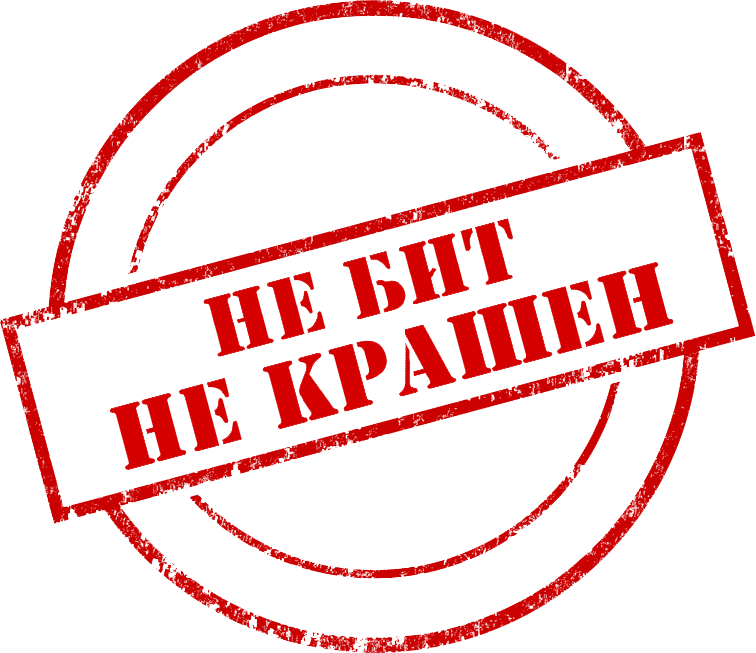
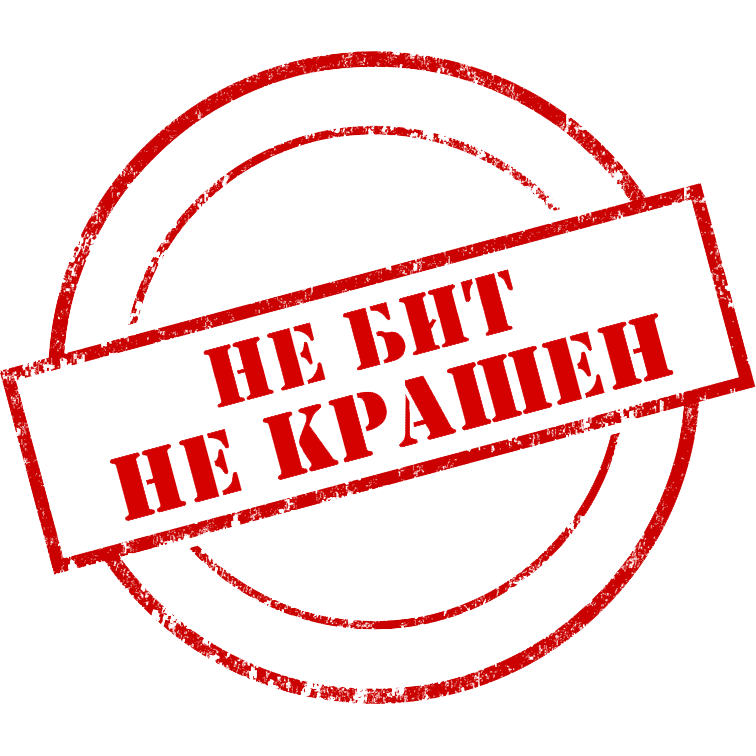
Updated stamp filter

Changed region(s): [[0.0, 0.0, 1.0, 1.0]]

diff --git a/Example/PaparazzoExample/TrustworthyAutoStamp.swift b/Example/PaparazzoExample/TrustworthyAutoStamp.swift
@@ -15,7 +15,7 @@ class TrustworthyAutoStamp: Filter {
     public var title: String = "Trustworthy Stamp"
     
     public func apply(_ sourceImage: UIImage, completion: ((_ resultImage: UIImage) -> Void)){
-        let stamp = UIImage.init(named: "transparent-stamp")
+        let stamp = UIImage.init(named: "stamp")
         
         let size = sourceImage.size
         let stampSize = stamp!.size
@@ -27,13 +27,14 @@ class TrustworthyAutoStamp: Filter {
                                          height: size.height)
         sourceImage.draw(in: backgroundRect)
         
+        let lesserSize = backgroundRect.width < backgroundRect.height ? backgroundRect.width : backgroundRect.height
+        let stampSideSize = lesserSize / 2
+        
         let offset = backgroundRect.width / 32
-        let stampWidth = stampSize.width / 2
-        let stampHeight = stampSize.height / 2
-        let stampRect = CGRect.init(x: backgroundRect.width - stampWidth - offset,
-                                    y: backgroundRect.height - stampHeight - offset,
-                                    width: stampWidth,
-                                    height: stampHeight)
+        let stampRect = CGRect.init(x: backgroundRect.width - stampSideSize - offset,
+                                    y: backgroundRect.height - stampSideSize - offset,
+                                    width: stampSideSize,
+                                    height: stampSideSize)
         stamp?.draw(in: stampRect)
         
         let newImage:UIImage = UIGraphicsGetImageFromCurrentImageContext()!
